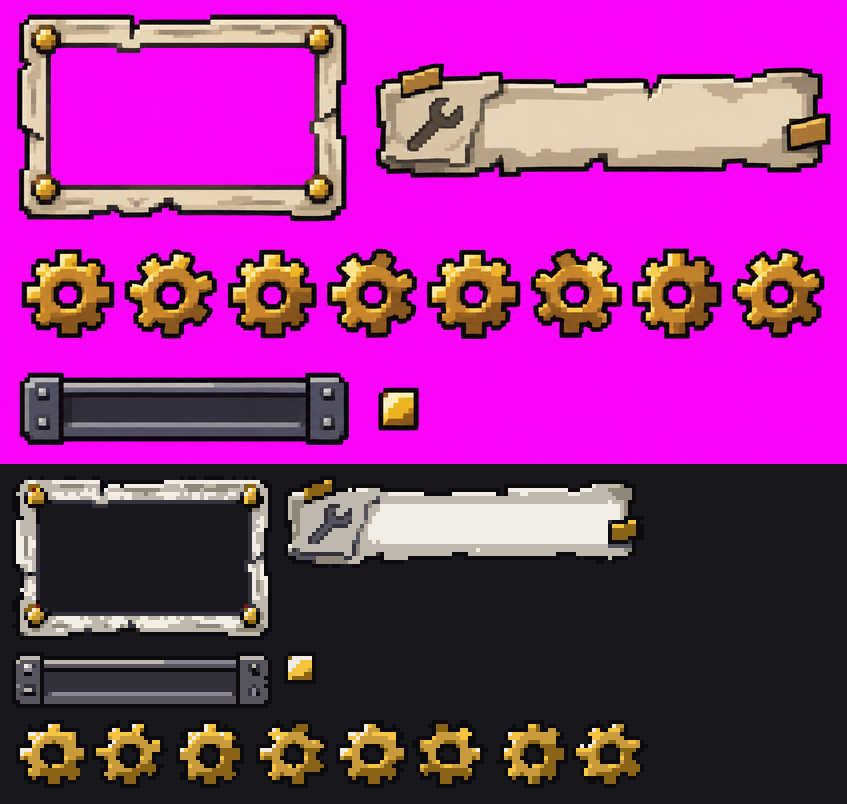
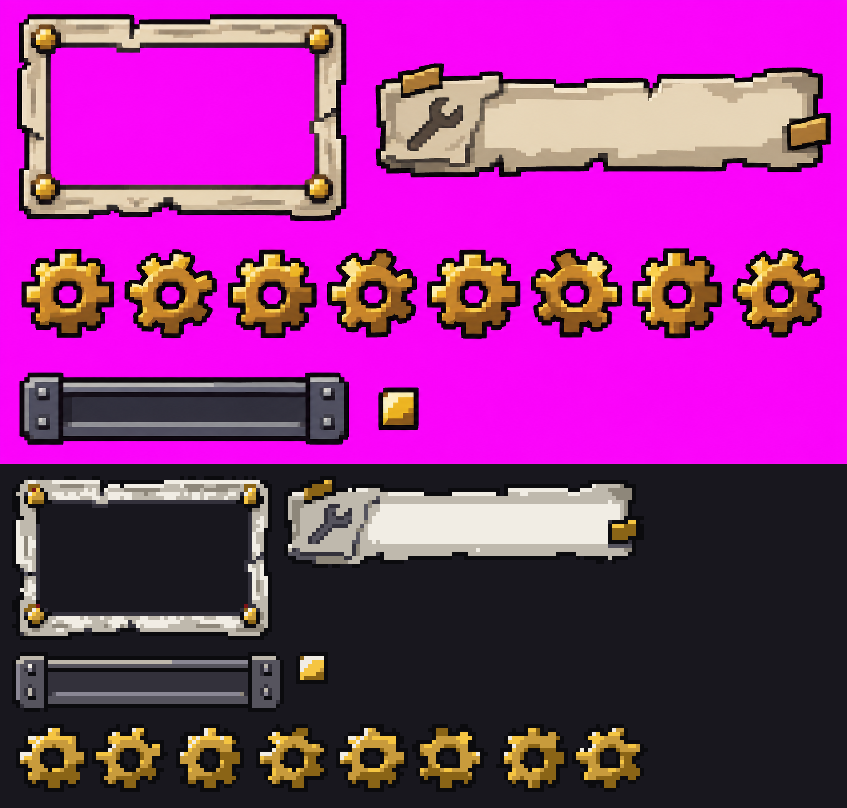
Integer-scale dialogue faces, re-grid load bar, measure-first guard in importers
- 얼굴 표시(src/slice/facesnap.ts): 대사 띠 · 말풍선 · 컷신 명패 · 분대 현황판 · 창 초상 얼굴이 object-fit: cover로
  얼굴 도트 하나 = 기기 픽셀 1.3~5.3개로 고르지 않던 것 → 홈을 덮는 가장 작은 정수 k(기기 픽셀)로 키워 CSS 초점 자리에서
  기기 픽셀 정수 위치로 자른다(홈 크기 · 액자는 그대로, 늘이지 않음). 쓰러짐 의식 얼굴(112px)은 56칸 × --px.
- 로딩 진행 막대 load-bar: 시트 공통 10.14 정사각 → 막대 상자에서 잰 가로 9.70 · 세로 9.84 → 리벳이 2×1 덩어리로 깨지던 것 해결.
  68×15(마개 9칸) — index.html 9-slice 5 9 2.
- 반입 도구 문지기(gridmeasure.guard): ui_delivery_import · adjutant · icon_sheet_import · term_icon_import · rd_import ·
  sheet-slice가 캔버스 ÷ N으로 맞춘 칸을 먼저 실측과 대조해 build-res/order/grid-measure.json에 남기고, 정수배가 아니면 멈춘다
  (--accept-fit일 때만 옛 판 재현). piece_import는 칸이 설계 결정이라 --measure일 때 기록만.
- RF-04 명령 카드 틀: 감사 보고의 「세로 11.69」로 다시 뽑아 보니 카드가 71줄로 줄고 금 명판 징이 끊겼다. 카드 한 장의 복원 오차도
  10.74(6.92)가 11.69(7.36)보다 낮다 → 그대로 두고 근거를 레시피에 남겼다.

Claude-Session: https://claude.ai/code/session_011jC4ZCDKW43H5FzLWnYVpe

diff --git a/src/slice/facesnap.ts b/src/slice/facesnap.ts
@@ -1,0 +1,83 @@
+/**
+ * 얼굴 도트 = 기기 픽셀 정수 (D-552, 격자 감사 2026-11-17).
+ * 대사 띠 · 말풍선 · 컷신 명패 · 분대 현황판의 얼굴(56 · 60 · 64칸)은 초상 홈(장치 도트 15 · 16 · 43칸 …)에 `object-fit: cover`로 들어가
+ * 얼굴 도트 하나가 기기 픽셀 1.3~5.3개로 고르지 않게 찍혔다. 홈 크기는 액자 그림의 홈이라 바꿀 수 없으므로,
+ * 얼굴을 「홈을 덮는 가장 작은 정수 k」(기기 픽셀 k개 = 얼굴 도트 하나)로 키우고 CSS가 정한 초점(object-position)에 맞춰
+ * 기기 픽셀 정수 자리에서 잘라 보인다 — 늘이지 않는다(D-386). 그림은 img의 배경으로 그리고 img 내용은 비킨다.
+ * UI는 게임 상태를 바꾸지 않는다(그림 크기만).
+ */
+const SEL = '.dl-face > img, .talk-face > img, .cw-face > img:not(.piece-img), img.mr-face, .frame-portrait > img:not(.fs-plate):not(.piece-img)';
+
+const seen = new WeakSet<HTMLImageElement>();
+const ro = typeof ResizeObserver === 'function' ? new ResizeObserver((es) => es.forEach((e) => fit(e.target as HTMLImageElement))) : null;
+
+/** CSS object-position(퍼센트 · 키워드) → 0~1 두 값 */
+const focusOf = (s: string): [number, number] => {
+  const kw: Record<string, number> = { left: 0, top: 0, center: 0.5, right: 1, bottom: 1 };
+  const v = s.trim().split(/\s+/).map((t) => (t in kw ? kw[t] : t.endsWith('%') ? parseFloat(t) / 100 : 0.5));
+  return [v[0] ?? 0.5, v[1] ?? 0.5];
+};
+
+/** 한 얼굴을 정수 배율로 맞춘다 (홈 크기가 바뀌면 ResizeObserver가 다시 부른다) */
+export function fit(img: HTMLImageElement): void {
+  if (!img.isConnected) return;
+  if (!img.complete || !img.naturalWidth) {
+    img.addEventListener('load', () => fit(img), { once: true });
+    return;
+  }
+  if (!img.dataset.fsFocus) {
+    img.style.objectPosition = '';
+    img.dataset.fsFocus = getComputedStyle(img).objectPosition || '50% 30%';
+  }
+  const w = img.clientWidth;
+  const h = img.clientHeight;
+  if (!w || !h) return;
+  const z = Number(document.documentElement.dataset.zoom || 1) || 1;
+  const r = (window.devicePixelRatio || 1) * z; // img 안 CSS px 하나 = 기기 픽셀 r개
+  const nw = img.naturalWidth;
+  const nh = img.naturalHeight;
+  const bw = w * r;
+  const bh = h * r;
+  const k = Math.max(1, Math.ceil(Math.max(bw / nw, bh / nh) - 0.01));
+  const [fx, fy] = focusOf(img.dataset.fsFocus);
+  const ox = Math.round((bw - nw * k) * fx);
+  const oy = Math.round((bh - nh * k) * fy);
+  const s = img.style;
+  s.objectFit = 'none';
+  s.objectPosition = '-99999px -99999px';
+  s.backgroundImage = `url("${img.currentSrc || img.src}")`;
+  s.backgroundRepeat = 'no-repeat';
+  s.backgroundSize = `${(nw * k) / r}px ${(nh * k) / r}px`;
+  s.backgroundPosition = `${ox / r}px ${oy / r}px`;
+  img.dataset.fsK = String(k);
+}
+
+const scan = (root: ParentNode): void => {
+  root.querySelectorAll<HTMLImageElement>(SEL).forEach((img) => {
+    if (seen.has(img)) return;
+    seen.add(img);
+    if (ro) ro.observe(img);
+    else fit(img);
+  });
+};
+
+if (typeof document !== 'undefined' && typeof MutationObserver === 'function') {
+  const start = (): void => {
+    scan(document);
+    new MutationObserver((ms) => {
+      for (const m of ms) {
+        m.addedNodes.forEach((n) => {
+          if (n instanceof HTMLImageElement && n.matches(SEL)) scan(n.parentElement ?? document);
+          else if (n instanceof Element) scan(n);
+        });
+        if (m.type === 'attributes' && m.target instanceof HTMLImageElement && seen.has(m.target)) {
+          delete m.target.dataset.fsFocus;
+          fit(m.target);
+        }
+      }
+    }).observe(document.body, { childList: true, subtree: true, attributes: true, attributeFilter: ['src'] });
+    window.addEventListener('resize', () => document.querySelectorAll<HTMLImageElement>(SEL).forEach(fit));
+  };
+  if (document.body) start();
+  else document.addEventListener('DOMContentLoaded', start, { once: true });
+}

diff --git a/tests/pixel-resample.test.ts b/tests/pixel-resample.test.ts
@@ -1,28 +1,17 @@
 import { describe, expect, it } from 'vitest';
-import { readdirSync, readFileSync, statSync } from 'node:fs';
-import { join } from 'node:path';
 
 // D-423 · D-552: 도트 반입 도구는 평균 리샘플(BOX · LANCZOS · BILINEAR · BICUBIC · HAMMING · ANTIALIAS, resample 없는 thumbnail)을 쓰지 않는다.
 // 같은 검사를 python3 -I tools/pixel/check_resample.py 로도 돌릴 수 있다 — 여기서는 파이썬 없이 같은 규칙으로 본다.
-const ROOT = join(__dirname, '..', 'tools', 'pixel');
+const FILES = import.meta.glob('../tools/pixel/**/*.py', { query: '?raw', import: 'default', eager: true }) as Record<string, string>;
 const BAD = /[,(=]\s*(?:Image|Resampling)\.(?:BOX|LANCZOS|BILINEAR|BICUBIC|HAMMING|ANTIALIAS)\b|Image\.Resampling\.(?:BOX|LANCZOS|BILINEAR|BICUBIC|HAMMING)\b/;
-
-function pyFiles(dir: string): string[] {
-  const out: string[] = [];
-  for (const f of readdirSync(dir)) {
-    const p = join(dir, f);
-    if (f === '__pycache__') continue;
-    if (statSync(p).isDirectory()) out.push(...pyFiles(p));
-    else if (f.endsWith('.py') && f !== 'check_resample.py') out.push(p);
-  }
-  return out;
-}
 
 describe('도트 반입 도구 — 평균 리샘플 금지', () => {
   it('tools/pixel 어디에도 평균 리샘플 호출이 없다', () => {
     const hits: string[] = [];
-    for (const p of pyFiles(ROOT)) {
-      readFileSync(p, 'utf8').split('\n').forEach((line, i) => {
+    const names = Object.keys(FILES).filter((p) => !p.endsWith('/check_resample.py'));
+    expect(names.length).toBeGreaterThan(40);
+    for (const p of names) {
+      FILES[p].split('\n').forEach((line: string, i: number) => {
         const code = line.split('#')[0];
         if (BAD.test(code) || (/\.thumbnail\(/.test(code) && !code.includes('NEAREST'))) hits.push(`${p}:${i + 1}: ${line.trim()}`);
       });
@@ -31,7 +20,7 @@ describe('도트 반입 도구 — 평균 리샘플 금지', () => {
   });
 
   it('공용 실측 도구가 있다 (gridmeasure.measure · regrid)', () => {
-    const src = readFileSync(join(ROOT, 'gridmeasure.py'), 'utf8');
+    const src = FILES['../tools/pixel/gridmeasure.py'];
     expect(src).toMatch(/def measure\(/);
     expect(src).toMatch(/def regrid\(/);
     expect(src).toMatch(/PRESENCE_MIN/);

diff --git a/index.html b/index.html
@@ -27,7 +27,7 @@
     #boot .boot-gear { width: 40px; height: 36px; background: url('ui/hud/load-gear.png') 0 0 / 320px 36px no-repeat; image-rendering: pixelated; animation: bootGears 0.8s steps(8) infinite; }
     @keyframes bootGears { from { background-position: 0 0; } to { background-position: -320px 0; } }
     /* 진행 막대: 12칸이 계단으로 찬다 (--k = 찬 칸 수) */
-    #boot .boot-bar { box-sizing: content-box; width: 192px; height: 16px; border-style: solid; border-width: 10px 16px 2px; border-image: url('ui/hud/load-bar.png') 5 8 1 fill / 10px 16px 2px stretch; image-rendering: pixelated; }
+    #boot .boot-bar { box-sizing: content-box; width: 192px; height: 16px; border-style: solid; border-width: 10px 18px 4px; border-image: url('ui/hud/load-bar.png') 5 9 2 fill / 10px 18px 4px stretch; image-rendering: pixelated; }
     #boot .boot-bar b { display: block; height: 100%; width: calc(var(--k, 0) * 16px); background: url('ui/hud/load-bar-fill.png') 0 0 / 16px 16px repeat-x; image-rendering: pixelated; }
     @media (max-height: 360px) { #boot .boot-em { transform: scale(0.8); } }
     @media (prefers-reduced-motion: reduce) { #boot .boot-gear, #boot .boot-em .sl { animation: none; } }

diff --git a/src/slice/slice.css b/src/slice/slice.css
@@ -1756,6 +1756,8 @@ body.slice .cf.g-pop:not(.taken) { animation: gpop 420ms both; }
   box-shadow: 0 0 0 2px #000, inset 0 0 0 2px #56545e, inset 0 0 0 4px #0b0b0e, 0 4px 0 2px #000; }
 .dr-face { display: grid; place-items: center; }
 .dr-face img { display: block; image-rendering: pixelated; }
+/* D-552: 분대원 얼굴 56칸 = 장치 도트(--px, 기기 픽셀 round(2·DPR)) 하나씩 — 112 CSS px는 DPR 2.625에서 도트 하나가 5.25 기기 픽셀로 고르지 않았다 */
+.dr-face img[src*="ui/hud/crew-"] { width: calc(var(--px) * 56); height: calc(var(--px) * 56); }
 .dr-face.ash img { filter: grayscale(1) brightness(0.55) contrast(1.2); }
 body.slice .deathfx.dc3 .dr-stamp { position: absolute; left: 50%; top: 50%; margin: -18px 0 0 -40px; width: 80px; height: 36px; display: grid; place-items: center; pointer-events: none;
   font: 700 24px/36px Galmuri11, sans-serif; color: #e0433f; box-shadow: inset 0 0 0 2px #e0433f, 0 0 0 2px #000; background: rgba(11, 11, 14, 0.35);

diff --git a/src/slice/pxsnap.ts b/src/slice/pxsnap.ts
@@ -1,3 +1,5 @@
+import './facesnap';
+
 /**
  * 도트 1개 = 기기 픽셀 정수 (D-392, 사용자: 「범용 기기 환경 — PC · 모바일에 맞춰 설계」).
  * --px(장치 층 도트 하나의 CSS 크기)를 round(2 × DPR) / DPR로 — DPR 1 · 2 → 2px, 1.25 → 2.4px, 2.625 → 1.905px, 3 → 2px.

diff --git a/tools/pixel/gridmeasure.py b/tools/pixel/gridmeasure.py
@@ -369,6 +369,53 @@ def icon_from_recipe(src_img, g, n=32, margin=2, colors=24):
     return out, rec
 
 
+RECORD = os.path.join(os.path.dirname(os.path.dirname(HERE)), 'build-res', 'order', 'grid-measure.json')
+
+
+def check_fit(img, box, used, lo=3.0, hi=40.0, bg=None, tol=0.03):
+    """반입 도구가 쓰려는 칸(used = (가로 px, 세로 px))이 원본 실측 도트의 정수배인지 판정한다.
+    판정: 'ok'(정수배와 tol 안) · 'off N%'(정수배에서 어긋남 — 캔버스 ÷ 칸 수로 맞춘 칸) · 'no-grid'(존재 < 1.06 — 되돌릴 격자 없음, 재발주 감)"""
+    m = measure(img, box, lo, hi, bg=bg)
+    ver = {}
+    for k, u in zip(('x', 'y'), used):
+        r = m[k]
+        if not r['grid']:
+            ver[k] = 'no-grid'
+            continue
+        q = u / r['pitch']
+        n = max(1, round(q))
+        off = abs(q - n) / n
+        ver[k] = 'ok' if off <= tol else f'off {off * 100:.1f}%'
+    return {'box': list(box) if box else None, 'used': [round(float(u), 3) for u in used], 'measured': short(m), 'verdict': ver}
+
+
+def record(tool, key, rec, path=RECORD):
+    """실측 기록을 build-res/order/grid-measure.json에 남긴다 ({도구: {키: 기록}})"""
+    try:
+        data = json.load(open(path, encoding='utf-8'))
+    except (OSError, ValueError):
+        data = {}
+    data.setdefault(tool, {})[key] = rec
+    with open(path, 'w', encoding='utf-8') as f:
+        json.dump(data, f, ensure_ascii=False, indent=1, sort_keys=True)
+        f.write('\n')
+
+
+def guard(tool, key, img, box, used, lo=3.0, hi=40.0, bg=None, enforce=True):
+    """반입 전 실측 → 기록 → 판정이 'ok'가 아니면 멈춘다(--accept-fit을 주면 기록만 하고 지나간다).
+    캔버스 크기에 칸을 맞추는(상자 ÷ N) 반입이 실측 없이 다시 돌지 않게 하는 문지기 (D-552).
+    enforce=False: 칸 크기가 설계 결정인 도구(piece_import — 기물 격자로 다시 그리기)는 기록만."""
+    rec = check_fit(img, box, used, lo, hi, bg)
+    record(tool, key, rec)
+    bad = {k: v for k, v in rec['verdict'].items() if v != 'ok'}
+    print(f'  [실측] {tool} {key}: 칸 {rec["used"]} · 실측 x {rec["measured"]["x"]["pitch"]}/{rec["measured"]["x"]["presence"]} '
+          f'y {rec["measured"]["y"]["pitch"]}/{rec["measured"]["y"]["presence"]} → {rec["verdict"]}')
+    if bad and enforce and '--accept-fit' not in sys.argv:
+        raise SystemExit(f'{tool} {key}: 칸이 실측 도트의 정수배가 아니다 {bad} — 레시피에 실측 격자를 넣거나(gridmeasure.measure), '
+                         f'되돌릴 격자가 없으면 재발주(D-388). 옛 판을 그대로 다시 뽑을 때만 --accept-fit.')
+    return rec
+
+
 def master_palette():
     """게임이 이미 쓰는 색 전부: UI 15색(ui_kit_import.PAL) · 반장 발주 24색(SPEC24) · 기물 PAL64"""
     import maker

diff --git a/tools/pixel/scene_recipe.py b/tools/pixel/scene_recipe.py
@@ -160,6 +160,9 @@ UI_KIT_GRID = {
     'RF-04-v1': {'native_w': 210.7, 'pitch': 8.28},             # 1차본 1774×887 — 비정수 격자 (게임 미반영, build-res/order/RF-04-v1-parts)
     # D-512 RF-04 재발주본 1774×887(발주 1600×800 ×8이 아님): 위상 맞춤 최고점 가로 10.6px · 시작 9.75, 세로 10.74px · 시작 5.0 → 167×82도트, 카드 한 장 약 50×78도트
     # (경계 동적 계획은 71줄로 줄였다 — 균일 격자). 56×84 캔버스로 맞추는 일은 cmd_frames.py
+    # D-552 재검: 세로 스펙트럼 최고는 11.69(존재 1.29~1.35)지만 카드 한 장(1200~1760 × 20~860)의 세로 복원 오차는
+    # 10.74가 6.92로 11.69(7.36)보다 낮고, 경계 줄 간격도 10 · 11 · 12가 섞인 평균 10.7이다. 11.69로 다시 뽑으니 카드가 71줄로
+    # 줄고 금 명판 징이 끊긴 줄로 깨졌다(대조판 grid-fix-ui) → 10.74를 그대로 둔다(감사 보고의 「세로 11.69」 지적은 기각).
     'RF-04': {'grid': (10.6, 9.75, 10.74, 5.0)},
     # D-512 CI-01b 사선 액자 재발주본 2225×707(발주 1408×448 ×8이 아님): 가로 12.58px · 시작 12.25, 세로 12.42px · 시작 4.75
     'CI-01b': {'grid': (12.58, 12.25, 12.42, 4.75)},
@@ -319,7 +322,11 @@ CROWN_GRID = {
 #   톱니 17~19×17(16×16) · 막대 65×14(48×8) · 채움 칸 8×8(4×4) — 늘리거나 줄이지 않고 받은 도트 그대로 쓴다(D-386).
 # LD-02 장면은 레터박스 띠를 그리지 않았다 → 띠 걷기 끔(trim_max -1).
 LOADING_GRID = {
-    'LD-01': {'grid': (10.14, 3.3, 10.14, 4.56)},
+    'LD-01': {'grid': (10.14, 3.3, 10.14, 4.56),
+              # D-552: 진행 막대는 자기 상자에서 따로 잰 격자로 다시 뽑는다(gridmeasure, 8~12px) — 가로 9.70 · 시작 4.85(존재 1.58) /
+              # 세로 9.839 · 시작 4.92(1.80). 시트 공통 10.14 정사각은 3~4% 굵어 65칸 동안 2칸 넘게 밀려 리벳이 2×1 덩어리로 깨졌다.
+              # 시작은 상자 왼 · 위 기준. 결과 68×15(양 끝 마개 9칸) → index.html #boot .boot-bar 9-slice 5 9 2.
+              'parts': {'load-bar': {'box': (34, 740, 702, 895), 'x': (9.70, 4.85), 'y': (9.839, 4.92)}}},
     'LD-02': {'name': 'loading-bench', 'trim_max': -1, 'trim_dark': 1},
 }
 

diff --git a/tools/pixel/loading_import.py b/tools/pixel/loading_import.py
@@ -19,7 +19,9 @@ from PIL import Image
 HERE = os.path.dirname(os.path.abspath(__file__))
 ROOT = os.path.dirname(os.path.dirname(HERE))
 sys.path.insert(0, HERE)
+import gridmeasure as gm  # noqa: E402
 import opening_import  # noqa: E402
+import snap  # noqa: E402
 import scene_recipe  # noqa: E402
 import ui_kit_import as kit  # noqa: E402
 
@@ -53,6 +55,19 @@ def even_slip(im, left=24, right=9, top=5, bottom=5):
     return Image.fromarray(a)
 
 
+def part_regrid(img, o):
+    """원본의 한 부품 상자를 그 상자에서 실측한 축별 격자(간격, 상자 기준 시작)로 칸 가운데 최빈색 → 마젠타 = 투명 → 발주 15색"""
+    crop = img.crop(o['box'])
+    cuts = (gm.cuts_from(crop.width, *o['x']), gm.cuts_from(crop.height, *o['y']))
+    s = snap.snap(crop, 0, 0, 0, 0, colors=0, cuts=cuts).convert('RGBA')
+    p = s.load()
+    for y in range(s.height):
+        for x in range(s.width):
+            c = p[x, y]
+            p[x, y] = (0, 0, 0, 0) if kit.is_key(c) or gm.is_key_fringe(c) else (*kit.near(c), 255)
+    return s.crop(s.getbbox())
+
+
 def sheet():
     g = scene_recipe.LOADING_GRID['LD-01']
     img = Image.open(os.path.join(ORDER, 'LD-01-source.png')).convert('RGB')
@@ -77,6 +92,9 @@ def sheet():
     assert len(split) == 8, split
     parts = {'guide-frame': small.crop(frame), 'tip-slip': small.crop(slip), 'load-bar': small.crop(bar), 'load-bar-fill': small.crop(fill)}
     parts['tip-slip'] = even_slip(parts['tip-slip'])
+    # D-552: 부품마다 따로 잰 격자가 있으면(scene_recipe.LOADING_GRID parts) 그 상자를 그 격자로 다시 뽑는다
+    for nm, o in g.get('parts', {}).items():
+        parts[nm] = part_regrid(img, o)
     # 프레임마다 실제 그림 상자로 다시 좁히고(가른 칸의 빈 열 걷기) 같은 칸 가운데에
     crops = [small.crop(b) for b in split]
     crops = [c.crop(c.getbbox()) for c in crops]

diff --git a/tools/pixel/ui_delivery_import.py b/tools/pixel/ui_delivery_import.py
@@ -1,6 +1,10 @@
 """수령 UI 원본 전체를 픽셀화한다. 상징·핀을 따로 떼거나 재조립하지 않는다.
 
-python3 -I tools/pixel/ui_delivery_import.py
+python3 -I tools/pixel/ui_delivery_import.py [--accept-fit]
+D-552: 칸 크기(본체 폭 ÷ 64 · 128)를 실측 도트와 대조해 build-res/order/grid-measure.json에 남기고, 정수배가 아니면 멈춘다.
+  실측(2026-11-17): UI-31 7.45/7.61 · UI-32 7.06/6.53 · UI-33 5.59/5.15(11.39/10.10) — 쓴 칸 17.47 · 8.80 · 13.23과 정수배가 아니다.
+  실측 격자로 다시 뽑아 보니(대조판 grid-fix-ui) UI-32 · 33은 가로 · 세로 간격이 8~12% 달라 둥근 핀이 세로로 늘고,
+  UI-31은 2배 묶음(74×72)에서 안쪽 왼 변에 얼룩 열이 생겨 옛 판보다 낫지 않았다 → 지금 그림을 두고 재발주 감으로 남긴다.
 UI-32 시트의 네 칸만 분리한다. 원본 색·윤곽·장식의 상대 위치를 유지한다.
 """
 from pathlib import Path
@@ -15,6 +19,7 @@ HERE = Path(__file__).resolve().parent
 ROOT = HERE.parent.parent
 sys.path.insert(0, str(HERE))
 import snap  # noqa: E402
+import gridmeasure as gm  # noqa: E402
 
 OUT = ROOT / 'src/assets/ui/chrome/v2'
 ORDER = ROOT / 'build-res/order'
@@ -54,6 +59,8 @@ def main():
     records, previews = [], []
 
     def save(name, im, source, crop, pitch, edge):
+        # D-552: 캔버스 폭 ÷ 64 · 128로 맞춘 칸이 실측 도트의 정수배인지 먼저 잰다 — 아니면 멈춘다(--accept-fit만 옛 판 재현)
+        gm.guard('ui_delivery_import', name, Image.open(source), crop, (pitch, pitch), lo=4, hi=24)
         dst = OUT / f'{name}.png'
         im.save(dst, optimize=True)
         a = np.asarray(im)

diff --git a/tools/pixel/icon_sheet_import.py b/tools/pixel/icon_sheet_import.py
@@ -19,6 +19,7 @@ from PIL import Image
 HERE = os.path.dirname(os.path.abspath(__file__))
 ROOT = os.path.dirname(os.path.dirname(HERE))
 sys.path.insert(0, HERE)
+import gridmeasure as gm  # noqa: E402
 import icon_sheets  # noqa: E402
 
 INK = (11, 11, 14)
@@ -122,7 +123,10 @@ def main(src, sid, dry=False):
         # 칸은 늘 정사각 — 받은 시트 높이가 칸 수와 안 맞아도(한 줄 시트가 2000×667로 오는 등) 세로로 찌그러뜨리지 않는다 (D-306)
         cw = W / 5
         top = (H - cw * rows) / 2
-        cell = sheet.crop((round(cw * cx), round(top + cw * cy), round(cw * (cx + 1)), round(top + cw * (cy + 1))))
+        cbox = (round(cw * cx), round(top + cw * cy), round(cw * (cx + 1)), round(top + cw * (cy + 1)))
+        cell = sheet.crop(cbox)
+        # D-552: 칸 ÷ 32로 맞춘 간격을 실측과 대조해 기록(정수배가 아니면 멈춘다 — --accept-fit은 옛 판 재현)
+        gm.guard('icon_sheet_import', f'{sid}:{k}', sheet, cbox, (cell.width / N, cell.height / N), lo=4, hi=40, bg=(255, 0, 255))
         icn = cell16(cell)
         game = thicken(centered(icn))
         f = os.path.join(ROOT, 'public', 'ui', 'icons16', f'{k}.png')

diff --git a/tools/pixel/piece_import.py b/tools/pixel/piece_import.py
@@ -35,6 +35,7 @@ from PIL import Image, ImageFilter
 HERE = os.path.dirname(os.path.abspath(__file__))
 sys.path.insert(0, HERE)
 from scene_recipe import BOSS_GRID, GIANT_GRID, PIECE_GRID  # noqa: E402
+import gridmeasure as gm  # noqa: E402
 
 PIECES = os.path.join(HERE, 'pieces64.txt')
 
@@ -226,6 +227,10 @@ def build(src, name, giant=False, plan=True):
     p = (by1 - by0 + 1) / cfg['body']
     cols = int(round((bx1 - bx0 + 1) / p))
     body = largest(sample(S.astype(float), bx0, by0, p, cols, rows, 'mean') > 0.5)
+    # D-552: 실루엣 ÷ 발주 키로 정한 간격은 기물 격자로 다시 그리는 설계 결정(D-524 · D-528) — 실측과 대조해 기록만 한다
+    if '--measure' in sys.argv:
+        gm.guard('piece_import', name, Image.fromarray(im.astype(np.uint8)),
+                 (int(blo + bx0), int(by0), int(blo + bx1 + 1), int(by1 + 1)), (p, p), lo=3, hi=40, enforce=False)
     if giant:
         rgb = sample(im[:, blo:bhi, :3], bx0, by0, p, cols, rows, 'median')
         Kc = sample((L[:, blo:bhi] < 22).astype(float), bx0, by0, p, cols, rows, 'mean') > 0.5

diff --git a/tools/pixel/adjutant.py b/tools/pixel/adjutant.py
@@ -8,7 +8,12 @@
 import os
 from collections import Counter, deque
 
+import sys
+
 from PIL import Image
+
+sys.path.insert(0, os.path.dirname(os.path.abspath(__file__)))
+import gridmeasure as gm  # noqa: E402
 
 ROOT = os.path.dirname(os.path.dirname(os.path.dirname(os.path.abspath(__file__))))
 SRC = os.path.join(ROOT, 'build-res', 'order', 'N-01-adjutant-src-source.png')
@@ -24,6 +29,8 @@ N8 = N4 + [(1, 1), (1, -1), (-1, 1), (-1, -1)]
 def main():
     crop = Image.open(SRC).convert('RGB').crop(BOX)
     cs = crop.size[0] / N
+    # D-552: 상자 ÷ 56으로 맞춘 칸(19.39px)을 실측(가로 17.84 · 세로 6.56 — 도트 크기가 섞였다)과 대조해 기록, 정수배가 아니면 멈춘다
+    gm.guard('adjutant', 'adjutant', Image.open(SRC), BOX, (cs, cs), lo=4, hi=24)
     cp = crop.load()
     # 바탕 = 남빛 도는 짙은 색 (11,10,15) — 검은 선(0~4)과 색으로 가른다 (어둡다고 바탕으로 보면 흰 테가 빠진 자리의 검은 선까지 지워졌다)
     is_bg = lambda c: 8 <= c[0] <= 13 and 7 <= c[1] <= 12 and 12 <= c[2] <= 18
